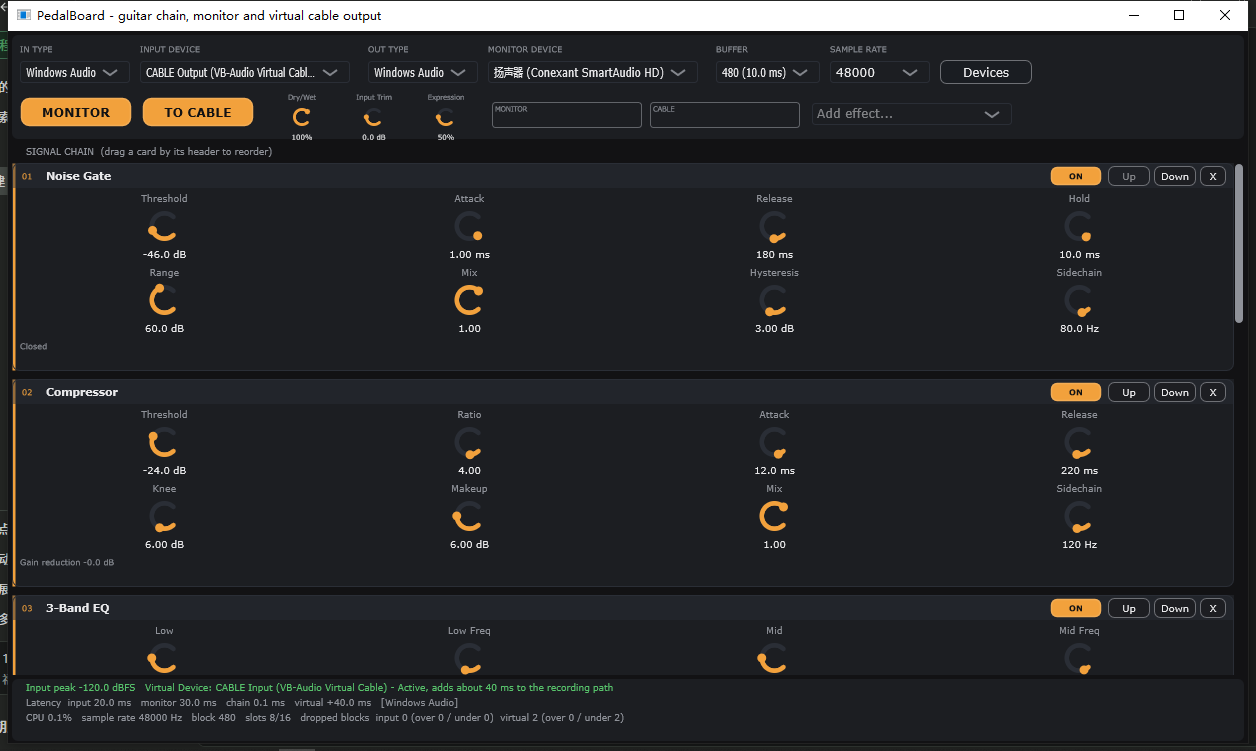
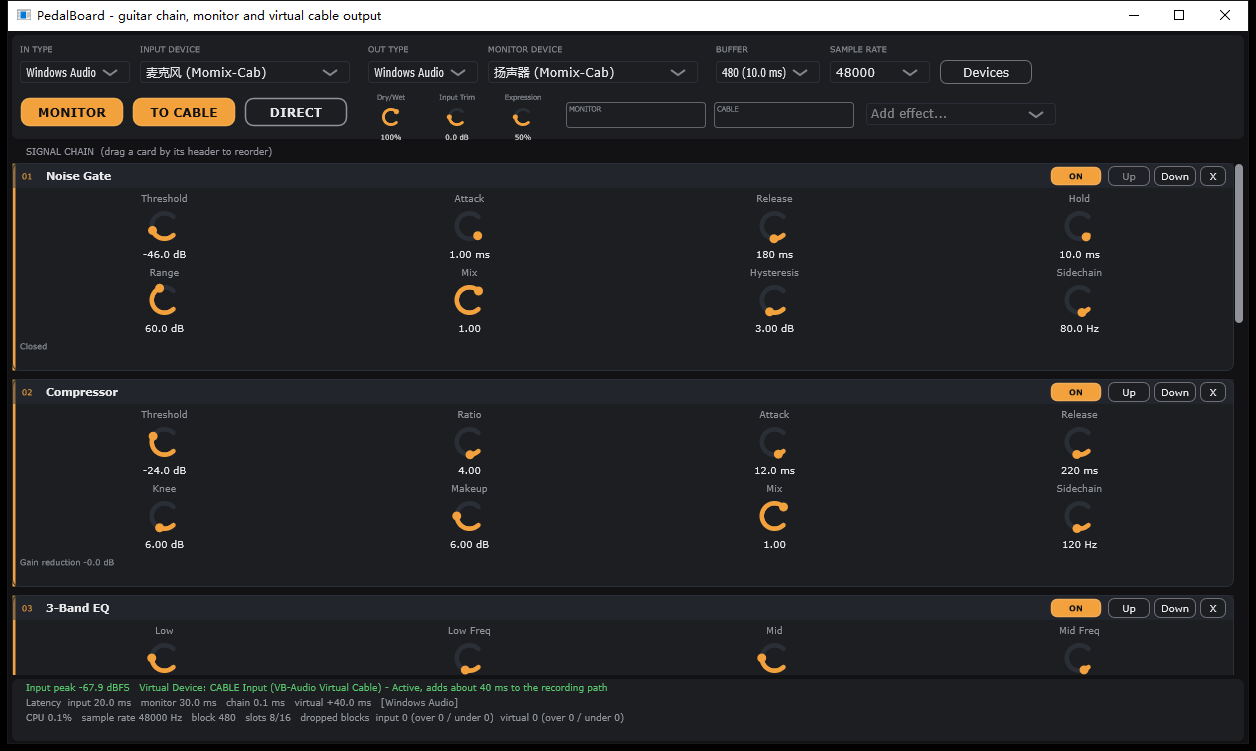
Publish PedalBoard 1.1.0 site update: DIRECT mode, polyphonic Octave, new download SHA

diff --git a/guide.html b/guide.html
@@ -150,7 +150,7 @@
             <span class="guide-step-num">01</span>
             <div class="guide-step-body">
               <h3 data-en="Get the zip from GitHub Releases" data-zh="从 GitHub Releases 下载压缩包">Get the zip from GitHub Releases</h3>
-              <p data-en="Open the Releases page and download PedalBoard-v1.0.0-windows-x64.zip. Avoid third-party download mirrors." data-zh="打开 Releases 页面，下载 PedalBoard-v1.0.0-windows-x64.zip。不要用第三方下载站。">Open the Releases page and download PedalBoard-v1.0.0-windows-x64.zip. Avoid third-party download mirrors.</p>
+              <p data-en="Open the Releases page and download PedalBoard-v1.1.0-windows-x64.zip. Avoid third-party download mirrors." data-zh="打开 Releases 页面，下载 PedalBoard-v1.1.0-windows-x64.zip。不要用第三方下载站。">Open the Releases page and download PedalBoard-v1.1.0-windows-x64.zip. Avoid third-party download mirrors.</p>
               <a class="text-link" href="https://github.com/DengXiaoping8964/PedalBoard/releases/latest" target="_blank" rel="noopener"><span data-en="Open Releases" data-zh="打开 Releases">Open Releases</span><svg aria-hidden="true"><use href="#i-arrow"/></svg></a>
             </div>
           </div>
@@ -198,7 +198,7 @@
                 </div>
                 <figcaption class="shot-caption">
                   <div><b data-en="The actual first-launch prompt" data-zh="真实的首次启动提示">The actual first-launch prompt</b><span data-en="Both languages are offered before the main window is built, so nothing is shown in the wrong language first." data-zh="主界面构建前就先问语言，所以不会先用错语言显示一遍。">Both languages are offered before the main window is built, so nothing is shown in the wrong language first.</span></div>
-                  <div class="shot-source" data-en="PedalBoard v1.0.0 · Windows 10" data-zh="PedalBoard v1.0.0 · Windows 10">PedalBoard v1.0.0 · Windows 10</div>
+                  <div class="shot-source" data-en="PedalBoard · Windows 10" data-zh="PedalBoard · Windows 10">PedalBoard · Windows 10</div>
                 </figcaption>
               </figure>
 
@@ -230,8 +230,8 @@
               <span class="shot-pin is-mint" style="left:67%;top:92.1%">4</span>
             </div>
             <figcaption class="shot-caption">
-              <div><b data-en="The Audio devices panel, captured from PedalBoard 1.0.0" data-zh="PedalBoard 1.0.0 的「音频设备」面板实拍">The Audio devices panel, captured from PedalBoard 1.0.0</b><span data-en="The panel opens with the last devices and the system defaults. Replace the input with your guitar interface before playing." data-zh="面板会带出上次的设备和系统默认值。开弹前，把输入换成你的吉他声卡。">The panel opens with the last devices and the system defaults. Replace the input with your guitar interface before playing.</span></div>
-              <div class="shot-source" data-en="PedalBoard v1.0.0 · Windows 10 · UI language can be switched inside this panel" data-zh="PedalBoard v1.0.0 · Windows 10 · 界面语言可在这个面板里切换">PedalBoard v1.0.0 · Windows 10 · UI language can be switched inside this panel</div>
+              <div><b data-en="The Audio devices panel, captured from the app" data-zh="软件里的「音频设备」面板实拍">The Audio devices panel, captured from the app</b><span data-en="The panel opens with the last devices and the system defaults. Replace the input with your guitar interface before playing." data-zh="面板会带出上次的设备和系统默认值。开弹前，把输入换成你的吉他声卡。">The panel opens with the last devices and the system defaults. Replace the input with your guitar interface before playing.</span></div>
+              <div class="shot-source" data-en="PedalBoard · Windows 10 · UI language can be switched inside this panel" data-zh="PedalBoard · Windows 10 · 界面语言可在这个面板里切换">PedalBoard · Windows 10 · UI language can be switched inside this panel</div>
             </figcaption>
           </figure>
           <div class="shot-legend">
@@ -246,10 +246,20 @@
             <li data-en="Driver type: Windows WASAPI for both input and monitor. MME and DirectSound are fallbacks; ASIO is only available if the app was built with the ASIO SDK." data-zh="驱动类型：输入和监听都先选 Windows WASAPI。MME 和 DirectSound 是备选；ASIO 只有在自行用 ASIO SDK 构建的版本里才有。">Driver type: Windows WASAPI for both input and monitor. MME and DirectSound are fallbacks; ASIO is only available if the app was built with the ASIO SDK.</li>
             <li data-en="Input: your interface, not “Stereo Mix” and not the laptop microphone." data-zh="输入：选你的声卡，不要选「立体声混音」，也不要选笔记本麦克风。">Input: your interface, not “Stereo Mix” and not the laptop microphone.</li>
             <li data-en="Monitor: your headphones or interface output. Do not choose CABLE here; CABLE is the recording path." data-zh="监听：耳机或声卡输出。这里不要选 CABLE；CABLE 是录音路径。">Monitor: your headphones or interface output. Do not choose CABLE here; CABLE is the recording path.</li>
-            <li data-en="Buffer: 256 samples to start. Lower to 128 or 64 if your CPU keeps up; raise to 512 if you hear crackles." data-zh="缓冲区：先用 256。电脑跟得上就降到 128 或 64；有爆音就升到 512。">Buffer: 256 samples to start. Lower to 128 or 64 if your CPU keeps up; raise to 512 if you hear crackles.</li>
+            <li data-en="Buffer: 256 samples to start. Lower to 128 or 64 if your CPU keeps up; raise to 512 if you hear crackles. In DIRECT the same box is labelled LATENCY." data-zh="缓冲区：先用 256。电脑跟得上就降到 128 或 64；有爆音就升到 512。直通模式下这个框叫「延迟 / LATENCY」。">Buffer: 256 samples to start. Lower to 128 or 64 if your CPU keeps up; raise to 512 if you hear crackles. In DIRECT the same box is labelled LATENCY.</li>
             <li data-en="Sample rate: 48000 Hz. Recording software should use the same rate." data-zh="采样率：48000 Hz。录音软件也要用同一个采样率。">Sample rate: 48000 Hz. Recording software should use the same rate.</li>
           </ul>
           <p data-en="Press Apply. If a device is missing, plug it in and press Rescan. Close other apps that may be holding the interface in exclusive mode." data-zh="点「应用 / Apply」。设备没出现，就插好线后点「重新扫描 / Rescan」。也关掉可能独占声卡的其他软件。">Press Apply. If a device is missing, plug it in and press Rescan. Close other apps that may be holding the interface in exclusive mode.</p>
+
+          <h3 data-en="Lowest latency: turn on DIRECT" data-zh="最低延迟：打开「直通」">Lowest latency: turn on DIRECT</h3>
+          <p data-en="The DIRECT switch in the main window changes the audio topology. Input and monitor output open as one duplex stream on the same interface, the input ring is skipped, and the box beside the switch becomes LATENCY. PedalBoard pairs the interface's own output automatically and prefers WASAPI Exclusive, then Low Latency, then shared mode. Apply the devices first, then switch DIRECT on; LATENCY can be changed while playing." data-zh="主界面的「直通 / DIRECT」开关会改变音频拓扑：输入和监听输出在同一块声卡上合成一条双向流，跳过输入环形缓冲，开关旁原来的「缓冲」框变成「延迟 / LATENCY」。PedalBoard 会自动配对该声卡自己的输出，优先 WASAPI 独占，其次低延迟，再次共享模式。先应用设备，再打开 DIRECT；播放时也能改 LATENCY。">The DIRECT switch in the main window changes the audio topology. Input and monitor output open as one duplex stream on the same interface, the input ring is skipped, and the box beside the switch becomes LATENCY. PedalBoard pairs the interface's own output automatically and prefers WASAPI Exclusive, then Low Latency, then shared mode. Apply the devices first, then switch DIRECT on; LATENCY can be changed while playing.</p>
+          <div class="callout">
+            <svg aria-hidden="true"><use href="#i-check"/></svg>
+            <div>
+              <strong data-en="Measured on one interface: 50 ms → 12 ms." data-zh="同一块声卡上的实测：50 ms → 12 ms。">Measured on one interface: 50 ms → 12 ms.</strong>
+              <p data-en="On a JOYO Momix-Cab at 48 kHz, the normal two-device path at 480 samples measured 20.0 ms input + 30.0 ms monitor = 50.0 ms. DIRECT at 144 samples measured 6.0 + 6.0 = 12.0 ms; watch the xrun counter in the status line, which read 0 over a 10 s verification run. 256 samples gives 21.3 ms. Effect latency still applies, and true zero latency is only the interface's own hardware direct-monitor switch." data-zh="在 JOYO Momix-Cab、48 kHz 下，普通双设备路径 480 样本实测输入 20.0 ms + 监听 30.0 ms = 50.0 ms。直通在 144 样本下实测 6.0 + 6.0 = 12.0 ms；注意状态栏的断音计数，10 秒验证运行中为 0。256 样本为 21.3 ms。效果器自身延迟仍然存在，真正的 0 延迟只有声卡自带的硬件直通开关。">On a JOYO Momix-Cab at 48 kHz, the normal two-device path at 480 samples measured 20.0 ms input + 30.0 ms monitor = 50.0 ms. DIRECT at 144 samples measured 6.0 + 6.0 = 12.0 ms; watch the xrun counter in the status line, which read 0 over a 10 s verification run. 256 samples gives 21.3 ms. Effect latency still applies, and true zero latency is only the interface's own hardware direct-monitor switch.</p>
+            </div>
+          </div>
 
           <div class="callout is-warn">
             <svg aria-hidden="true"><use href="#i-alert"/></svg>
@@ -323,7 +333,7 @@
             </div>
             <figcaption class="shot-caption">
               <div><b data-en="The main window with the default chain on first launch" data-zh="首次打开时的主界面与默认链路">The main window with the default chain on first launch</b><span data-en="Chinese UI shown. Press EN/中文 in the site header to see the English capture." data-zh="当前显示中文界面；点网站右上角的 EN/中文 可看英文实拍。">Chinese UI shown. Press EN/中文 in the site header to see the English capture.</span></div>
-              <div class="shot-source" data-en="PedalBoard v1.0.0 · Windows 10 · 1256 × 751" data-zh="PedalBoard v1.0.0 · Windows 10 · 1256 × 751">PedalBoard v1.0.0 · Windows 10 · 1256 × 751</div>
+              <div class="shot-source" data-en="PedalBoard v1.1.0 · Windows 10 · 1256 × 751" data-zh="PedalBoard v1.1.0 · Windows 10 · 1256 × 751">PedalBoard v1.1.0 · Windows 10 · 1256 × 751</div>
             </figcaption>
           </figure>
           <div class="shot-legend">
@@ -358,7 +368,7 @@
             </div>
             <figcaption class="shot-caption">
               <div><b data-en="One card, three areas" data-zh="一张卡，三个区域">One card, three areas</b><span data-en="The Noise Gate card at 1256 px wide, cropped from the actual window." data-zh="1256 像素宽窗口里的噪声门卡片，从实际界面裁切。">The Noise Gate card at 1256 px wide, cropped from the actual window.</span></div>
-              <div class="shot-source" data-en="PedalBoard v1.0.0 · actual app capture" data-zh="PedalBoard v1.0.0 · 实际界面截图">PedalBoard v1.0.0 · actual app capture</div>
+              <div class="shot-source" data-en="PedalBoard · actual app capture" data-zh="PedalBoard · 实际界面截图">PedalBoard · actual app capture</div>
             </figcaption>
           </figure>
           <div class="shot-legend">
@@ -529,7 +539,11 @@
             </details>
             <details>
               <summary data-en="Octave or pitch effects sound unstable." data-zh="八度或移调听起来不稳。">Octave or pitch effects sound unstable.</summary>
-              <div class="faq-body"><p data-en="Octave is monophonic by design; chords and double stops will confuse it. Play single notes. Pitch Shifter is the better choice for shifting a whole performance, and its Formant control keeps the tone natural." data-zh="Octave 按设计就是单音的，和弦和双音会让它判断混乱。弹单音。整段移调请用 Pitch Shifter，它的共振峰控制能让音色更自然。">Octave is monophonic by design; chords and double stops will confuse it. Play single notes. Pitch Shifter is the better choice for shifting a whole performance, and its Formant control keeps the tone natural.</p></div>
+              <div class="faq-body"><p data-en="Octave has been polyphonic since 1.1.0: an 80-band phase-scaling filterbank generates both octaves without note tracking, so chords and double stops keep their notes. If a very low note sounds rough, lower Octave Down and use the 3-Band EQ before it to remove the lowest frequencies. Pitch Shifter remains the tool for shifting a whole performance, and its Formant control keeps the tone natural." data-zh="1.1.0 起 Octave 是多音的：80 段相位缩放滤波器组不用单音跟踪就能生成上下八度，和弦和双音都能保持各自的音。极低的音听起来粗糙时，降低「低八度 / Octave Down」，并在它前面用三段均衡削掉最低频。整段移调仍然用 Pitch Shifter，它的共振峰控制能让音色更自然。">Octave has been polyphonic since 1.1.0: an 80-band phase-scaling filterbank generates both octaves without note tracking, so chords and double stops keep their notes. If a very low note sounds rough, lower Octave Down and use the 3-Band EQ before it to remove the lowest frequencies. Pitch Shifter remains the tool for shifting a whole performance, and its Formant control keeps the tone natural.</p></div>
+            </details>
+            <details>
+              <summary data-en="How do I get the lowest latency?" data-zh="怎么把延迟降到最低？">How do I get the lowest latency?</summary>
+              <div class="faq-body"><p data-en="Turn on DIRECT in the main window after applying your devices. PedalBoard then opens the input and monitor output as one duplex stream on the same interface, skips the input ring, and lets you pick the size with the LATENCY box. On the measured Momix-Cab at 48 kHz this cut the round trip from 50 ms to 12 ms at 144 samples; 256 samples gives 21.3 ms. If your monitoring device is on another interface, DIRECT first tries to pair the input interface's own output; if that fails, the normal path is restored." data-zh="应用设备后，打开主界面的「直通 / DIRECT」。PedalBoard 会把输入和监听输出合成同一块声卡上的一条双向流，跳过输入环形缓冲，并用「延迟 / LATENCY」框选缓冲大小。在实测的 Momix-Cab、48 kHz 下，往返从 50 ms 降到 144 样本的 12 ms；256 样本为 21.3 ms。如果监听设备在另一块声卡上，DIRECT 会先尝试配对输入声卡自己的输出；失败就恢复普通路径。">Turn on DIRECT in the main window after applying your devices. PedalBoard then opens the input and monitor output as one duplex stream on the same interface, skips the input ring, and lets you pick the size with the LATENCY box. On the measured Momix-Cab at 48 kHz this cut the round trip from 50 ms to 12 ms at 144 samples; 256 samples gives 21.3 ms. If your monitoring device is on another interface, DIRECT first tries to pair the input interface's own output; if that fails, the normal path is restored.</p></div>
             </details>
             <details>
               <summary data-en="I cannot add another effect." data-zh="我加不了新效果。">I cannot add another effect.</summary>

diff --git a/index.html b/index.html
@@ -25,7 +25,7 @@
   "name": "PedalBoard",
   "applicationCategory": "MultimediaApplication",
   "operatingSystem": "Windows 10, Windows 11",
-  "softwareVersion": "1.0.0",
+  "softwareVersion": "1.1.0",
   "license": "https://www.gnu.org/licenses/agpl-3.0.html",
   "downloadUrl": "https://github.com/DengXiaoping8964/PedalBoard/releases/latest",
   "codeRepository": "https://github.com/DengXiaoping8964/PedalBoard",
@@ -135,14 +135,14 @@
         <div class="hero-actions">
           <a class="btn btn-primary" href="https://github.com/DengXiaoping8964/PedalBoard/releases/latest" target="_blank" rel="noopener">
             <svg aria-hidden="true"><use href="#i-download"/></svg>
-            <span data-en="Download v1.0.0" data-zh="下载 v1.0.0">Download v1.0.0</span>
+            <span data-en="Download v1.1.0" data-zh="下载 v1.1.0">Download v1.1.0</span>
           </a>
           <a class="btn btn-ghost" href="guide.html">
             <span data-en="3-minute setup" data-zh="3 分钟上手">3-minute setup</span>
             <svg aria-hidden="true"><use href="#i-arrow"/></svg>
           </a>
         </div>
-        <p class="hero-micro" data-en="3.4 MB · no installer · Windows 10/11 x64" data-zh="3.4 MB · 免安装 · Windows 10/11 x64">3.4 MB · no installer · Windows 10/11 x64</p>
+        <p class="hero-micro" data-en="3.6 MB · no installer · Windows 10/11 x64 · NEW: polyphonic Octave + 12 ms DIRECT mode" data-zh="3.6 MB · 免安装 · Windows 10/11 x64 · 新增：复音八度 + 12 ms 直通模式">3.6 MB · no installer · Windows 10/11 x64 · NEW: polyphonic Octave + 12 ms DIRECT mode</p>
         <dl class="hero-stats">
           <div><dt>3</dt><dd data-en="steps to sound" data-zh="步出声">steps to sound</dd></div>
           <div><dt>8</dt><dd data-en="effects ready" data-zh="个效果已接好">effects ready</dd></div>
@@ -246,7 +246,7 @@
       <header class="section-head reveal">
         <p class="kicker" data-en="02 — THE ACTUAL WINDOW" data-zh="02 — 实际界面">02 — THE ACTUAL WINDOW</p>
         <h2 class="display" id="lookTitle"><span class="line" data-en="This is the window." data-zh="这就是打开后的样子。">This is the window.</span><span class="line" data-en="Not a render." data-zh="不是渲染图。">Not a render.</span></h2>
-        <p class="section-lead" data-en="Captured from PedalBoard 1.0.0 on Windows 10. The default chain, the device status, the meters and every knob are exactly what you get after the first launch." data-zh="截自 Windows 10 上的 PedalBoard 1.0.0。默认链路、设备状态、电平表和每个旋钮，都是你首次打开后看到的东西。">Captured from PedalBoard 1.0.0 on Windows 10. The default chain, the device status, the meters and every knob are exactly what you get after the first launch.</p>
+        <p class="section-lead" data-en="Captured from PedalBoard 1.1.0 on Windows 10. The default chain, the device status, the meters and every knob are exactly what you get after the first launch; the new DIRECT switch sits in the second row." data-zh="截自 Windows 10 上的 PedalBoard 1.1.0。默认链路、设备状态、电平表和每个旋钮，都是你首次打开后看到的东西；新增的「直通」开关就在第二行。">Captured from PedalBoard 1.1.0 on Windows 10. The default chain, the device status, the meters and every knob are exactly what you get after the first launch; the new DIRECT switch sits in the second row.</p>
       </header>
       <figure class="shot-figure reveal">
         <div class="shot-frame">
@@ -259,7 +259,7 @@
           <span class="shot-pin is-mint" style="left:5.4%;top:95.6%">4</span>
         </div>
         <figcaption class="shot-caption">
-          <div><b data-en="PedalBoard 1.0.0, default chain, first launch" data-zh="PedalBoard 1.0.0，默认链路，首次打开">PedalBoard 1.0.0, default chain, first launch</b><span data-en="Switch the site language to EN/中文 and the screenshot switches with it." data-zh="切换网站右上角的 EN/中文，截图也会跟着换。">Switch the site language to EN/中文 and the screenshot switches with it.</span></div>
+          <div><b data-en="PedalBoard 1.1.0, default chain, first launch" data-zh="PedalBoard 1.1.0，默认链路，首次打开">PedalBoard 1.1.0, default chain, first launch</b><span data-en="Switch the site language to EN/中文 and the screenshot switches with it." data-zh="切换网站右上角的 EN/中文，截图也会跟着换。">Switch the site language to EN/中文 and the screenshot switches with it.</span></div>
           <div class="shot-source" data-en="Actual app screenshot · Windows 10 · 1256 × 751" data-zh="实际软件截图 · Windows 10 · 1256 × 751">Actual app screenshot · Windows 10 · 1256 × 751</div>
         </figcaption>
       </figure>
@@ -268,6 +268,43 @@
         <span><i>2</i><span data-en="ON: bypass one card without losing its settings." data-zh="ON：旁通一张卡，不丢参数。">ON: bypass one card without losing its settings.</span></span>
         <span><i>3</i><span data-en="The default chain starts here; drag a header to reorder." data-zh="默认链路从这里开始；拖卡片头部排序。">The default chain starts here; drag a header to reorder.</span></span>
         <span><i class="is-mint">4</i><span data-en="Status bar: input peak, latency, CPU and dropped blocks." data-zh="状态栏：输入峰值、延迟、CPU 和丢块。">Status bar: input peak, latency, CPU and dropped blocks.</span></span>
+      </div>
+    </div>
+  </section>
+
+  <section class="section" id="direct" aria-labelledby="directTitle">
+    <div class="wrap chain-panel">
+      <div class="chain-copy reveal">
+        <p class="kicker" data-en="NEW IN 1.1.0 — DIRECT MODE" data-zh="1.1.0 新增 — 直通模式">NEW IN 1.1.0 — DIRECT MODE</p>
+        <h2 class="display" id="directTitle"><span class="line" data-en="One device." data-zh="一块声卡。">One device.</span><span class="line" data-en="12 ms. Play." data-zh="12 ms。开弹。">12 ms. Play.</span></h2>
+        <p class="section-lead" data-en="DIRECT closes the normal two-device path and runs the whole chain inside one duplex callback on the guitar interface. Plug speakers into the interface, press DIRECT, and the buffer box becomes the LATENCY control: 144 samples is a 12 ms round trip at 48 kHz, measured, not estimated." data-zh="「直通」会关掉原来的双设备路径，把整条效果链放进吉他声卡的一个双工回调里。把音箱插到声卡上，按下「直通」，缓冲区框就变成「延迟」控制：48 kHz 下 144 样本实测往返 12 ms，不是估算。">DIRECT closes the normal two-device path and runs the whole chain inside one duplex callback on the guitar interface. Plug speakers into the interface, press DIRECT, and the buffer box becomes the LATENCY control: 144 samples is a 12 ms round trip at 48 kHz, measured, not estimated.</p>
+        <div class="dsp-number">12<span>ms</span></div>
+        <p class="dsp-label" data-en="ROUND TRIP · WINDOWS AUDIO EXCLUSIVE · 144 SAMPLES" data-zh="实测往返 · WINDOWS AUDIO 独占模式 · 144 样本">ROUND TRIP · WINDOWS AUDIO EXCLUSIVE · 144 SAMPLES</p>
+        <ul class="chain-points">
+          <li><svg aria-hidden="true"><use href="#i-check"/></svg><span data-en="50 ms normal path → 12 ms direct at 144 samples, driver-reported. The status line shows the xrun counter, so stability is visible on your own interface." data-zh="普通路径 50 ms → 直通 144 样本 12 ms，均为驱动上报。状态栏显示断音计数，在你自己声卡上是否稳定一眼可见。">50 ms normal path → 12 ms direct at 144 samples, driver-reported. The status line shows the xrun counter, so stability is visible on your own interface.</span></li>
+          <li><svg aria-hidden="true"><use href="#i-check"/></svg><span data-en="Auto-pairs with the interface's own speaker output and switches to the lowest-latency driver mode it can open." data-zh="自动配对该声卡自己的扬声器输出，并优先打开能用的最低延迟驱动模式。">Auto-pairs with the interface's own speaker output and switches to the lowest-latency driver mode it can open.</span></li>
+          <li><svg aria-hidden="true"><use href="#i-check"/></svg><span data-en="NEW: Octave is polyphonic now — both octaves follow chords, no monophonic note tracking. Pitch Shifter was already clean and is unchanged." data-zh="新增：八度已经是复音 — 上下八度都能跟随和弦，不再单音跟踪。移调本来就干净，这次没有改。">NEW: Octave is polyphonic now — both octaves follow chords, no monophonic note tracking. Pitch Shifter was already clean and is unchanged.</span></li>
+        </ul>
+        <div class="hero-actions">
+          <a class="btn btn-ghost" href="advanced.html#latency"><span data-en="Measured latency and limits" data-zh="实测延迟与限制">Measured latency and limits</span><svg aria-hidden="true"><use href="#i-arrow"/></svg></a>
+        </div>
+      </div>
+      <div class="chain-demo reveal">
+        <div class="card-top">
+          <span class="card-label" data-en="MEASURED · JOYO MOMIX-CAB" data-zh="实测 · JOYO MOMIX-CAB">MEASURED · JOYO MOMIX-CAB</span>
+          <span class="chip" data-en="48 kHz" data-zh="48 kHz">48 kHz</span>
+        </div>
+        <div class="table-wrap">
+          <table class="spec-table">
+            <thead><tr><th data-en="Path" data-zh="路径">Path</th><th data-en="Buffer" data-zh="缓冲">Buffer</th><th data-en="Round trip" data-zh="往返">Round trip</th></tr></thead>
+            <tbody>
+              <tr><td data-en="Normal, two devices" data-zh="普通，双设备">Normal, two devices</td><td>480</td><td>50.0 ms</td></tr>
+              <tr><td data-en="DIRECT, Exclusive" data-zh="直通，独占">DIRECT, Exclusive</td><td>144</td><td><b>12.0 ms</b></td></tr>
+              <tr><td data-en="DIRECT, Exclusive" data-zh="直通，独占">DIRECT, Exclusive</td><td>256</td><td>21.3 ms</td></tr>
+            </tbody>
+          </table>
+        </div>
+        <p class="measure-note" data-en="Driver-reported. Effect latency is extra: Cabinet 512 samples, Pitch Shifter 80 ms. The status line shows xruns; true zero is the interface's hardware direct-monitor switch." data-zh="驱动上报。效果器自身延迟另计：箱体 512 样本、移调 80 ms。状态栏显示断音计数；真正的 0 延迟是声卡自带的硬件直通开关。">Driver-reported. Effect latency is extra: Cabinet 512 samples, Pitch Shifter 80 ms. The status line shows xruns; true zero is the interface's hardware direct-monitor switch.</p>
       </div>
     </div>
   </section>
@@ -444,29 +481,29 @@
           <p style="margin-top:18px"><a class="text-link" href="guide.html"><span data-i18n="dl.guideLink">Read the full setup guide</span><svg aria-hidden="true"><use href="#i-arrow"/></svg></a></p>
         </div>
 
-        <aside class="release-card" aria-label="Release 1.0.0">
+        <aside class="release-card" aria-label="Release 1.1.0">
           <div class="release-head">
             <div>
               <span class="release-eyebrow">PEDALBOARD</span>
-              <strong>v1.0.0</strong>
+              <strong>v1.1.0</strong>
             </div>
             <span class="release-badge" data-i18n="dl.badge">LATEST</span>
           </div>
           <dl class="release-rows">
             <div><dt data-i18n="dl.platformLabel">Platform</dt><dd data-i18n="dl.platformValue">Windows 10/11 x64</dd></div>
-            <div><dt data-i18n="dl.sizeLabel">Download</dt><dd data-i18n="dl.sizeValue">3.4 MB zip</dd></div>
+            <div><dt data-i18n="dl.sizeLabel">Download</dt><dd data-i18n="dl.sizeValue">3.6 MB zip</dd></div>
             <div><dt data-i18n="dl.licenseLabel">License</dt><dd>AGPLv3</dd></div>
             <div><dt data-i18n="dl.buildLabel">Build</dt><dd data-i18n="dl.buildValue">Release · static CRT</dd></div>
           </dl>
           <div class="sha-block">
             <span class="sha-label" data-i18n="dl.shaLabel">SHA-256</span>
-            <code id="shaText">31b66d88af4a92cf1708695a0715920<br>d8e55519b6b2c8fce55887ccf6593021b</code>
[1 lines of base64/hex data omitted]
+            <code id="shaText">91971ee813d10f65a1b6c76e67dcead6<br>d1255c7f3fac6d30d5ad907046ba8089</code>
[1 lines of base64/hex data omitted]
               <svg aria-hidden="true"><use href="#i-copy"/></svg>
               <span id="copyLabel" data-i18n="dl.copy">Copy</span>
             </button>
           </div>
-          <a class="release-checksum" href="https://github.com/DengXiaoping8964/PedalBoard/releases/download/v1.0.0/SHA256SUMS.txt" target="_blank" rel="noopener">SHA256SUMS.txt</a>
+          <a class="release-checksum" href="https://github.com/DengXiaoping8964/PedalBoard/releases/download/v1.1.0/SHA256SUMS.txt" target="_blank" rel="noopener">SHA256SUMS.txt</a>
         </aside>
       </div>
 

diff --git a/advanced.html b/advanced.html
@@ -160,12 +160,12 @@
     </div>
   </section>
 
-  <section class="section" aria-labelledby="flowTitle">
+  <section class="section" id="latency" aria-labelledby="flowTitle">
     <div class="wrap">
       <header class="section-head reveal">
         <p class="kicker" data-en="02 — ROUTING" data-zh="02 — 路由">02 — ROUTING</p>
         <h2 class="display" id="flowTitle"><span class="line" data-en="One chain, two paths." data-zh="一条链路，两路输出。">One chain, two paths.</span></h2>
-        <p class="section-lead" data-en="The monitor path is kept fast. The virtual path adds CABLE's own buffer on top. The status bar shows the latencies separately instead of hiding them in one number." data-zh="监听路径保持快。虚拟路径会在上面再加 CABLE 自己的缓冲。状态栏把几段延迟分开显示，而不是塞进一个数字。">The monitor path is kept fast. The virtual path adds CABLE's own buffer on top. The status bar shows the latencies separately instead of hiding them in one number.</p>
+        <p class="section-lead" data-en="The monitor path is kept fast, and DIRECT mode makes it faster: one duplex device on the interface, measured at 12 ms round trip instead of 50 ms on the normal two-device path. The virtual path still adds CABLE's own buffer on top. The status bar shows every segment separately instead of hiding them in one number." data-zh="监听路径本来就快，直通模式让它更快：声卡上一个双工设备，实测往返 12 ms，而普通双设备路径是 50 ms。虚拟路径仍会在上面再加 CABLE 自己的缓冲。状态栏把每一段延迟分开显示，而不是塞进一个数字。">The monitor path is kept fast, and DIRECT mode makes it faster: one duplex device on the interface, measured at 12 ms round trip instead of 50 ms on the normal two-device path. The virtual path still adds CABLE's own buffer on top. The status bar shows every segment separately instead of hiding them in one number.</p>
       </header>
       <div class="flow reveal" aria-hidden="true">
         <div class="flow-node">
@@ -185,7 +185,7 @@
           <div class="flow-node is-out">
             <span class="flow-icon"><svg><use href="#i-jack"/></svg></span>
             <span class="flow-kicker" data-en="MONITOR" data-zh="监听">MONITOR</span>
-            <strong data-en="Interface or headphones. Low latency." data-zh="声卡或耳机，低延迟。">Interface or headphones. Low latency.</strong>
+            <strong data-en="Interface or headphones. DIRECT: 12 ms round trip." data-zh="声卡或耳机。直通：实测往返 12 ms。">Interface or headphones. DIRECT: 12 ms round trip.</strong>
           </div>
           <div class="flow-node is-out is-virtual">
             <span class="flow-icon"><svg><use href="#i-split"/></svg></span>
@@ -199,6 +199,13 @@
         <div>
           <strong data-en="The virtual path is not free." data-zh="虚拟路径不是零成本。">The virtual path is not free.</strong>
           <p data-en="CABLE adds its own buffer. Recording through CABLE Output adds that buffer on top of the monitor path. For playing, monitor through the interface; for recording, accept the extra latency or use the interface's direct monitoring." data-zh="CABLE 有自己的缓冲。通过 CABLE Output 录音，会在这个基础上再加一段。演奏时用声卡监听；录音时接受这段额外延迟，或用声卡的直接监听。">CABLE adds its own buffer. Recording through CABLE Output adds that buffer on top of the monitor path. For playing, monitor through the interface; for recording, accept the extra latency or use the interface's direct monitoring.</p>
+        </div>
+      </div>
+      <div class="callout reveal">
+        <svg aria-hidden="true"><use href="#i-check"/></svg>
+        <div>
+          <strong data-en="DIRECT mode: 12.0 ms measured at 48 kHz." data-zh="直通模式：48 kHz 下实测 12.0 ms。">DIRECT mode: 12.0 ms measured at 48 kHz.</strong>
+          <p data-en="Normal two-device path at 480 samples: 20.0 ms input + 30.0 ms monitor = 50.0 ms. DIRECT opens one duplex Windows Audio (Exclusive Mode) stream at 144 samples: 6.0 + 6.0 = 12.0 ms; 256 samples gives 21.3 ms. The status line shows the xrun counter, which read 0 over a 10 s verification run and is the number to watch after changing buffer or driver mode. The LATENCY box adjusts it live. Effect latency still applies (Pitch Shifter 80 ms, Cabinet 512 samples); true zero is only the interface's hardware direct-monitor switch." data-zh="普通双设备路径 480 样本：输入 20.0 ms + 监听 30.0 ms = 50.0 ms。直通在 144 样本下打开一个 Windows Audio 独占双工流：6.0 + 6.0 = 12.0 ms；256 样本为 21.3 ms。状态栏显示断音计数，在 10 秒验证运行中为 0；改缓冲或驱动模式后要盯着这个数。「延迟」框可实时调整。效果器自身延迟仍然存在（移调 80 ms、箱体 512 样本）；真正的 0 延迟只有声卡自带的硬件直通开关。">Normal two-device path at 480 samples: 20.0 ms input + 30.0 ms monitor = 50.0 ms. DIRECT opens one duplex Windows Audio (Exclusive Mode) stream at 144 samples: 6.0 + 6.0 = 12.0 ms; 256 samples gives 21.3 ms. The status line shows the xrun counter, which read 0 over a 10 s verification run and is the number to watch after changing buffer or driver mode. The LATENCY box adjusts it live. Effect latency still applies (Pitch Shifter 80 ms, Cabinet 512 samples); true zero is only the interface's hardware direct-monitor switch.</p>
         </div>
       </div>
     </div>

diff --git a/audacity.html b/audacity.html
@@ -200,7 +200,7 @@
             <h2 data-en="Three pieces, installed separately." data-zh="三样东西，分别安装。">Three pieces, installed separately.</h2>
             <p data-en="PedalBoard, Audacity and VB-CABLE are independent programs. PedalBoard never downloads or installs the other two. Install them yourself, from their official sites." data-zh="PedalBoard、Audacity 和 VB-CABLE 是三个独立软件。PedalBoard 不会下载或安装另外两个。请从各自的官网自行安装。">PedalBoard, Audacity and VB-CABLE are independent programs. PedalBoard never downloads or installs the other two. Install them yourself, from their official sites.</p>
             <ul class="checklist">
-              <li><span data-en="PedalBoard 1.0.0 installed and producing sound through your headphones or interface." data-zh="PedalBoard 1.0.0 已安装，并且耳机或声卡里能听到声音。">PedalBoard 1.0.0 installed and producing sound through your headphones or interface.</span></li>
+              <li><span data-en="PedalBoard 1.1.0 installed and producing sound through your headphones or interface." data-zh="PedalBoard 1.1.0 已安装，并且耳机或声卡里能听到声音。">PedalBoard 1.1.0 installed and producing sound through your headphones or interface.</span></li>
               <li><span data-en="Audacity installed from audacityteam.org (current 4.x line)." data-zh="从 audacityteam.org 安装 Audacity（当前 4.x）。">Audacity installed from audacityteam.org (current 4.x line).</span></li>
               <li><span data-en="VB-CABLE installed from vb-audio.com/Cable, then Windows restarted." data-zh="从 vb-audio.com/Cable 安装 VB-CABLE，然后重启 Windows。">VB-CABLE installed from vb-audio.com/Cable, then Windows restarted.</span></li>
               <li><span data-en="Headphones. Speakers plus an open microphone will feed back." data-zh="耳机。音箱加开着的麦克风会啸叫。">Headphones. Speakers plus an open microphone will feed back.</span></li>
@@ -228,7 +228,7 @@
               </div>
               <figcaption class="shot-caption">
                 <div><b data-en="PedalBoard: devices and virtual output" data-zh="PedalBoard：设备与虚拟输出">PedalBoard: devices and virtual output</b><span data-en="The monitor device is what you hear. VIRTUAL OUT feeds CABLE Input, which Audacity reads from CABLE Output." data-zh="监听设备是你听到的声音。虚拟输出送往 CABLE Input，Audacity 从 CABLE Output 读。">The monitor device is what you hear. VIRTUAL OUT feeds CABLE Input, which Audacity reads from CABLE Output.</span></div>
-                <div class="shot-source">PedalBoard v1.0.0 · actual app capture</div>
+                <div class="shot-source">PedalBoard · actual app capture</div>
               </figcaption>
             </figure>
             <div class="shot-legend">

diff --git a/effects.html b/effects.html
@@ -212,7 +212,7 @@
         <article class="fx-card" data-cat="pitch">
           <div class="fx-head"><span class="fx-cat" data-en="Pitch" data-zh="音高">Pitch</span><svg class="fx-glyph" aria-hidden="true"><use href="#i-pitch"/></svg></div>
           <h3 data-en="Octave" data-zh="八度">Octave</h3>
-          <p data-en="Sub-octave divider plus an Octavia-style upper octave. Monophonic by design — play single notes." data-zh="分频下八度加 Octavia 式上八度。按设计是单音的 — 弹单音。">Sub-octave divider plus an Octavia-style upper octave. Monophonic by design — play single notes.</p>
+          <p data-en="Polyphonic phase-scaling octaver: an 80-band analytic filterbank generates the lower and upper octave without note tracking, so chords and double stops stay intact. Rebuilt in 1.1.0." data-zh="复音相位缩放八度：80 段解析滤波器组直接生成上下八度，不用单音跟踪，和弦和双音都能保持完整。1.1.0 重写。">Polyphonic phase-scaling octaver: an 80-band analytic filterbank generates the lower and upper octave without note tracking, so chords and double stops stay intact. Rebuilt in 1.1.0.</p>
           <span class="fx-tip" data-en="Start: Down 60%, Up 30%, Blend 80%." data-zh="起点：Down 60%，Up 30%，Blend 80%。">Start: Down 60%, Up 30%, Blend 80%.</span>
         </article>
         <article class="fx-card" data-cat="pitch">

diff --git a/pages.css b/pages.css
@@ -130,13 +130,14 @@ body.gate-open{overflow:hidden}
 .chain-points li{display:flex;gap:9px;align-items:flex-start;font-size:11.5px;line-height:1.55;color:var(--muted)}
 .chain-points svg{width:14px;height:14px;flex:none;margin-top:2px;color:var(--mint)}
 .chain-demo{
-  position:relative;padding:24px;border:1px solid var(--line-strong);border-radius:24px;
+  position:relative;min-width:0;padding:24px;border:1px solid var(--line-strong);border-radius:24px;
   background:
     radial-gradient(90% 100% at 100% 0%,rgba(255,122,26,.08),transparent 60%),
     linear-gradient(155deg,rgba(255,255,255,.055),rgba(255,255,255,.012));
   box-shadow:0 30px 80px rgba(0,0,0,.38),inset 0 1px 0 rgba(255,255,255,.08);
 }
 .chain-demo .card-top{margin-bottom:16px}
+.measure-note{margin:14px 2px 0;font-size:9px;line-height:1.65;color:var(--faint);letter-spacing:.02em}
 .chain-demo .mini-chain{margin:0 0 14px}
 
 /* ---------- home: starter six ---------- */

diff --git a/app.js b/app.js
@@ -49,7 +49,7 @@
       'dl.platformLabel': 'Platform',
       'dl.platformValue': 'Windows 10/11 x64',
       'dl.sizeLabel': 'Download',
-      'dl.sizeValue': '3.4 MB zip',
+      'dl.sizeValue': '3.6 MB zip',
       'dl.licenseLabel': 'License',
       'dl.buildLabel': 'Build',
       'dl.buildValue': 'Release · static CRT',
@@ -139,7 +139,7 @@
       'dl.platformLabel': '平台',
       'dl.platformValue': 'Windows 10/11 x64',
       'dl.sizeLabel': '下载大小',
-      'dl.sizeValue': '3.4 MB 压缩包',
+      'dl.sizeValue': '3.6 MB 压缩包',
       'dl.licenseLabel': '许可证',
       'dl.buildLabel': '构建',
       'dl.buildValue': 'Release · 静态 CRT',
